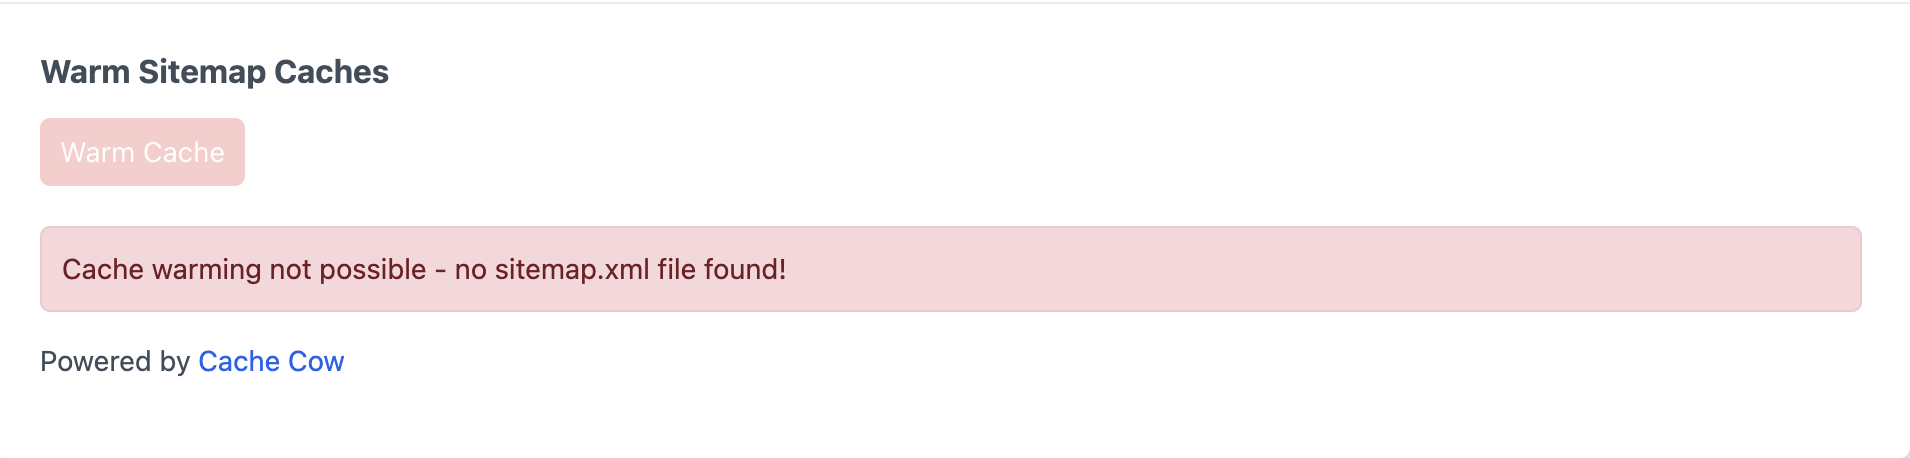
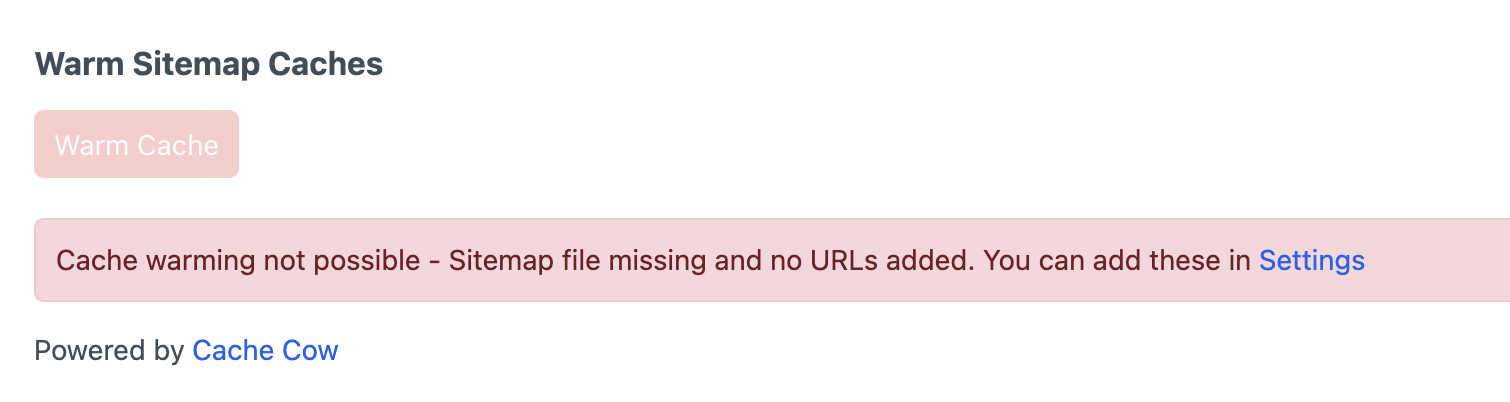
update error conditions and messaging, update docs to reflect new settings UI

diff --git a/src/CacheCow.php b/src/CacheCow.php
@@ -59,9 +59,11 @@ class CacheCow extends Plugin
                 if ($event->template === '_components/utilities/ClearCaches.twig') {
                     // Custom template to append to the Utilities -> Caches UI
                     $sitemapExists = CacheWarmerService::instance()->getSitemapExists();
+                    $additionalUrlCount = count(CacheCow::$plugin->getSettings()->additionalUrls);
                     $event->output .= Craft::$app->view->renderTemplate('cache-cow/index', [
                         'jobsInProgress' => $jobsInProgress,
                         'sitemapExists' => $sitemapExists,
+                        'additionalUrlCount' => $additionalUrlCount,
                     ]);
                 }
             }

diff --git a/src/jobs/WarmCacheJob.php b/src/jobs/WarmCacheJob.php
@@ -10,7 +10,7 @@ use yii\base\Event;
 
 class WarmCacheJob extends BaseJob
 {
-    private array $urls = [];
+    public array $urls = [];
     private array $fetchedUrls = [];
     private array $failedUrls = [];
     private int $totalUrlCount;

diff --git a/README.md b/README.md
@@ -8,8 +8,9 @@ Or run the command
 /path/to/my/craft cache-cow/cache/warm
 ```
 
-Cache Cow will look for your sitemap at {webroot}/sitemap.xml by default, but you can override in `config/cache-cow.php` with your own `sitemapUrl` value.
-If no sitemap exists at the specified location, button will be disabled and you'll see an error.
+Cache Cow will look for your sitemap at `{webroot}/sitemap.xml` by default, but you can set the path to your own sitemap in plugin settings. Or you can have the plugin read this value from an environment variable, depending on your needs.
+You can enter additional URLs for cache warming in plugin settings.
+If no URLs are found (i.e. no sitemap exists at the configured path and no additional URLs have been entered), "Warm Cache" button will be disabled and you'll see an error.
 ![Screen shot of Warm Cache button disabled with missing sitemap error.](sitemap-missing-error.png)
 
 
